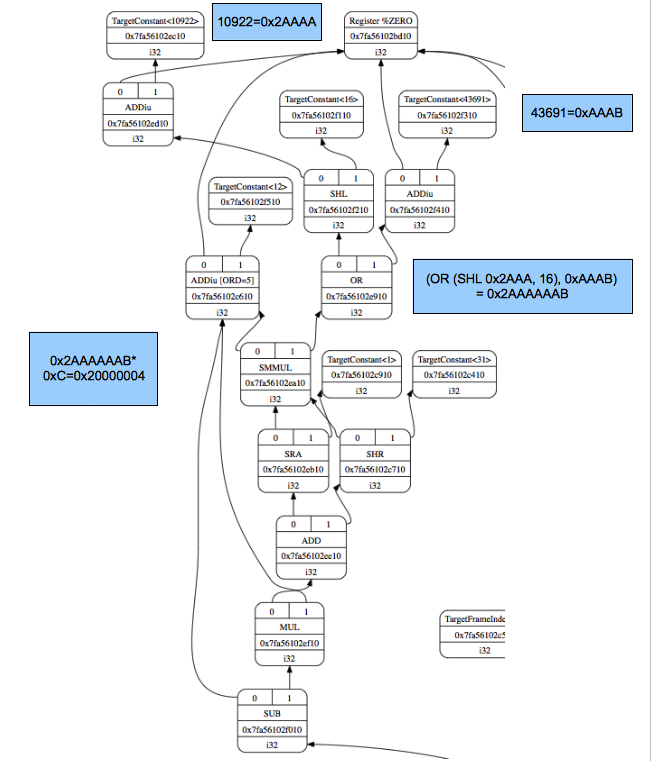
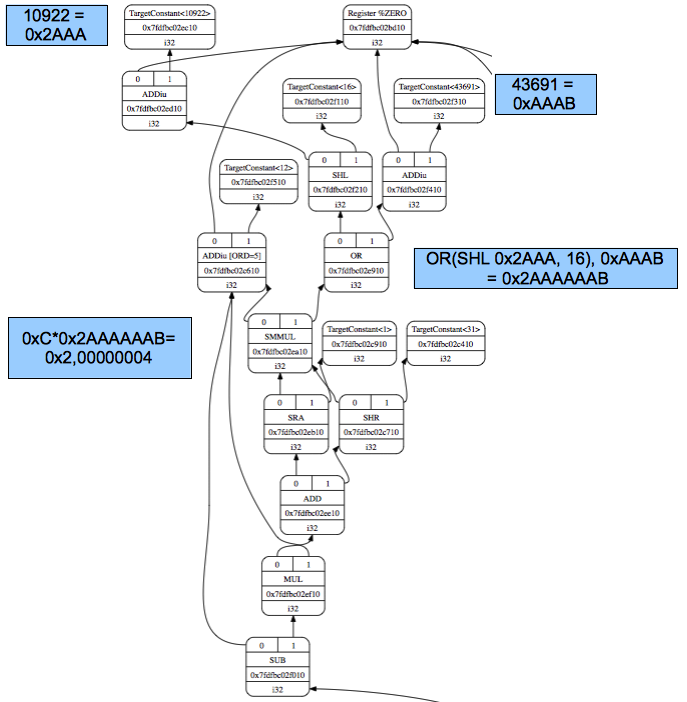
Correct Fig/otherinst/2.png and 3.png error

Changed region(s): [[0.0, 0.0, 1.0, 1.0], [0.6697, 0.7778, 0.7915, 0.8675]]

diff --git a/source/otherinst.rst b/source/otherinst.rst
@@ -4,8 +4,8 @@ Other instructions
 This chapter add more cpu0 arithmetic instructions support first.
 The logic operation **“not”** support and translation in 
 `section Operator “not” !`_. The `section Display llvm IR nodes with Graphviz`_ 
-will show you the DAG optimization steps and their corresponding llc display 
-options. 
+will show you the DAG optimization steps and their corresponding ``llc`` 
+display options. 
 These DAG optimization steps result can be displayed by the graphic tool of 
 Graphviz which supply very useful information with graphic view. 
 You will appreciate Graphviz support in debug, we think. 
@@ -18,7 +18,8 @@ Finally, `section Operator mod, %`_ take care the C operator %.
 Support arithmetic instructions
 --------------------------------
 
-Run the 3/5/Cpu0 llc with input file ch4_1_1.bc will get the error as follows,
+Run the 3/5/Cpu0 ``llc`` with input file ch4_1_1.bc will get the error as 
+follows,
 
 .. code-block:: c++
 
@@ -269,8 +270,8 @@ Let's assume %0 != 0 first, then the (icmp ne i32 %0, 0) = 1 (or true), and
 When %0 = 0, (icmp ne i32 %0, 0) = 0 (or false), and (xor 0, 1) = 1. 
 So, the translation is correct. 
     
-Now, let's run ch4_2.bc with 4/2/Cpu0 with llc -debug option to get result as 
-follows,
+Now, let's run ch4_2.bc with 4/2/Cpu0 with ``llc -debug`` option to get result 
+as follows,
 
 .. code-block:: bash
 
@@ -405,18 +406,18 @@ Display llvm IR nodes with Graphviz
 ------------------------------------
 
 The previous section, display the DAG translation process in text on terminal 
-by llc -debug option. 
-The llc also support the graphic display. 
-The `section Install other tools on iMac`_ mentioned the web for llc 
+by ``llc -debug`` option. 
+The ``llc`` also support the graphic display. 
+The `section Install other tools on iMac`_ mentioned the web for ``llc`` 
 graphic display information. 
-The llc graphic display with tool Graphviz is introduced in this section. 
+The ``llc`` graphic display with tool Graphviz is introduced in this section. 
 The graphic display is more readable by eye than display text in terminal. 
 It's not necessary, but it help a lot especially when you are tired in tracking 
 the DAG translation process. 
-List the llc graphic support options from the sub-section "SelectionDAG 
+List the ``llc`` graphic support options from the sub-section "SelectionDAG 
 Instruction Selection Process" of web [#]_ as follows,
 
-.. note:: The llc Graphviz DAG display options
+.. note:: The ``llc`` Graphviz DAG display options
 
     -view-dag-combine1-dags displays the DAG after being built, before the 
     first optimization pass. 
@@ -430,7 +431,7 @@ Instruction Selection Process" of web [#]_ as follows,
     
     -view-sched-dags displays the DAG before Scheduling. 
     
-By tracking llc -debug, you can see the DAG translation steps as follows,
+By tracking ``llc -debug``, you can see the DAG translation steps as follows,
 
 .. code-block:: bash
 
@@ -446,8 +447,8 @@ By tracking llc -debug, you can see the DAG translation steps as follows,
     …
 
 
-Let's run llc with option -view-dag-combine1-dags, and open the output result 
-with Graphviz as follows,
+Let's run ``llc`` with option -view-dag-combine1-dags, and open the output 
+result with Graphviz as follows,
 
 .. code-block:: bash
 
@@ -907,8 +908,8 @@ follows, will get the error message as follows and the llvm DAG of
 
 .. _otherinst_f2:
 .. figure:: ../Fig/otherinst/2.png
-    :height: 786 px
-    :width: 778 px
+    :height: 629 px
+    :width: 580 px
     :scale: 100 %
     :align: center
 
@@ -918,7 +919,7 @@ LLVM replace srem divide operation with multiply operation in DAG optimization
 because DIV operation cost more in time than MUL. 
 For example code **“int b = 11; b=(b+1)%12;”**, it translate into :ref:`otherinst_f2`. 
 We verify the result and explain by calculate the value in each node. 
-The 0xC*0x2AAAAAAB=0x200000004, (mulhs 0xC, 0x2AAAAAAAB) meaning get the Signed 
+The 0xC*0x2AAAAAAB=0x2,00000004, (mulhs 0xC, 0x2AAAAAAAB) meaning get the Signed 
 mul high word (32bits). 
 Multiply with 2 operands of 1 word size generate the 2 word size of result 
 (0x2, 0xAAAAAAAB). 
@@ -929,14 +930,14 @@ The final result (sub 12, 12) is 0 which match the statement (11+1)%12.
 Arm solution
 ~~~~~~~~~~~~~
 
-Let's run 4/6_1/Cpu0 with ch4_6.cpp as well as llc option  -view-sched-dags to 
-get :ref:`otherinst_f3`. 
+Let's run 4/6_1/Cpu0 with ch4_6.cpp as well as ``llc -view-sched-dags`` option 
+to get :ref:`otherinst_f3`. 
 Similarly, SMMUL get the high word of multiply result.
 
 .. _otherinst_f3:
 .. figure:: ../Fig/otherinst/3.png
-    :height: 781 px
-    :width: 657 px
+    :height: 702 px
+    :width: 687 px
     :scale: 100 %
     :align: center
 

diff --git a/source/about.rst b/source/about.rst
@@ -167,7 +167,7 @@ Chapter of Other instructions:
 Over ten of C operators and their corresponding LLVM IR instructions 
 introduced in this chapter. Around 200 lines of source code (most are in 
 .td Target Description file) are added. With these 200 lines, it can translate 
-+, -, *, /, &, |, ^, <<, >>, ! and % into assembly code. 
+**+, -, \*, /, &, |, ^, <<, >>, !** and **%** into assembly code. 
 The ``llc`` debug option and debug tool **Graphviz** which supported by LLVM 
 introduced in this chapter.
 
@@ -207,7 +207,7 @@ Over 700 lines of source code added in this chapter.
 Chapter of ELF:
 
 Like many backend. Cpu0 support ELF obj format generated. The ELF format and 
-binutils tools (not a part of LLVM) introduced and demonstrate backend 
+binutils tools (not a part of LLVM) introduced and demonstrate the backend 
 designers how to use this ELF tool to verify and analysis the backend obj.  
 
 
